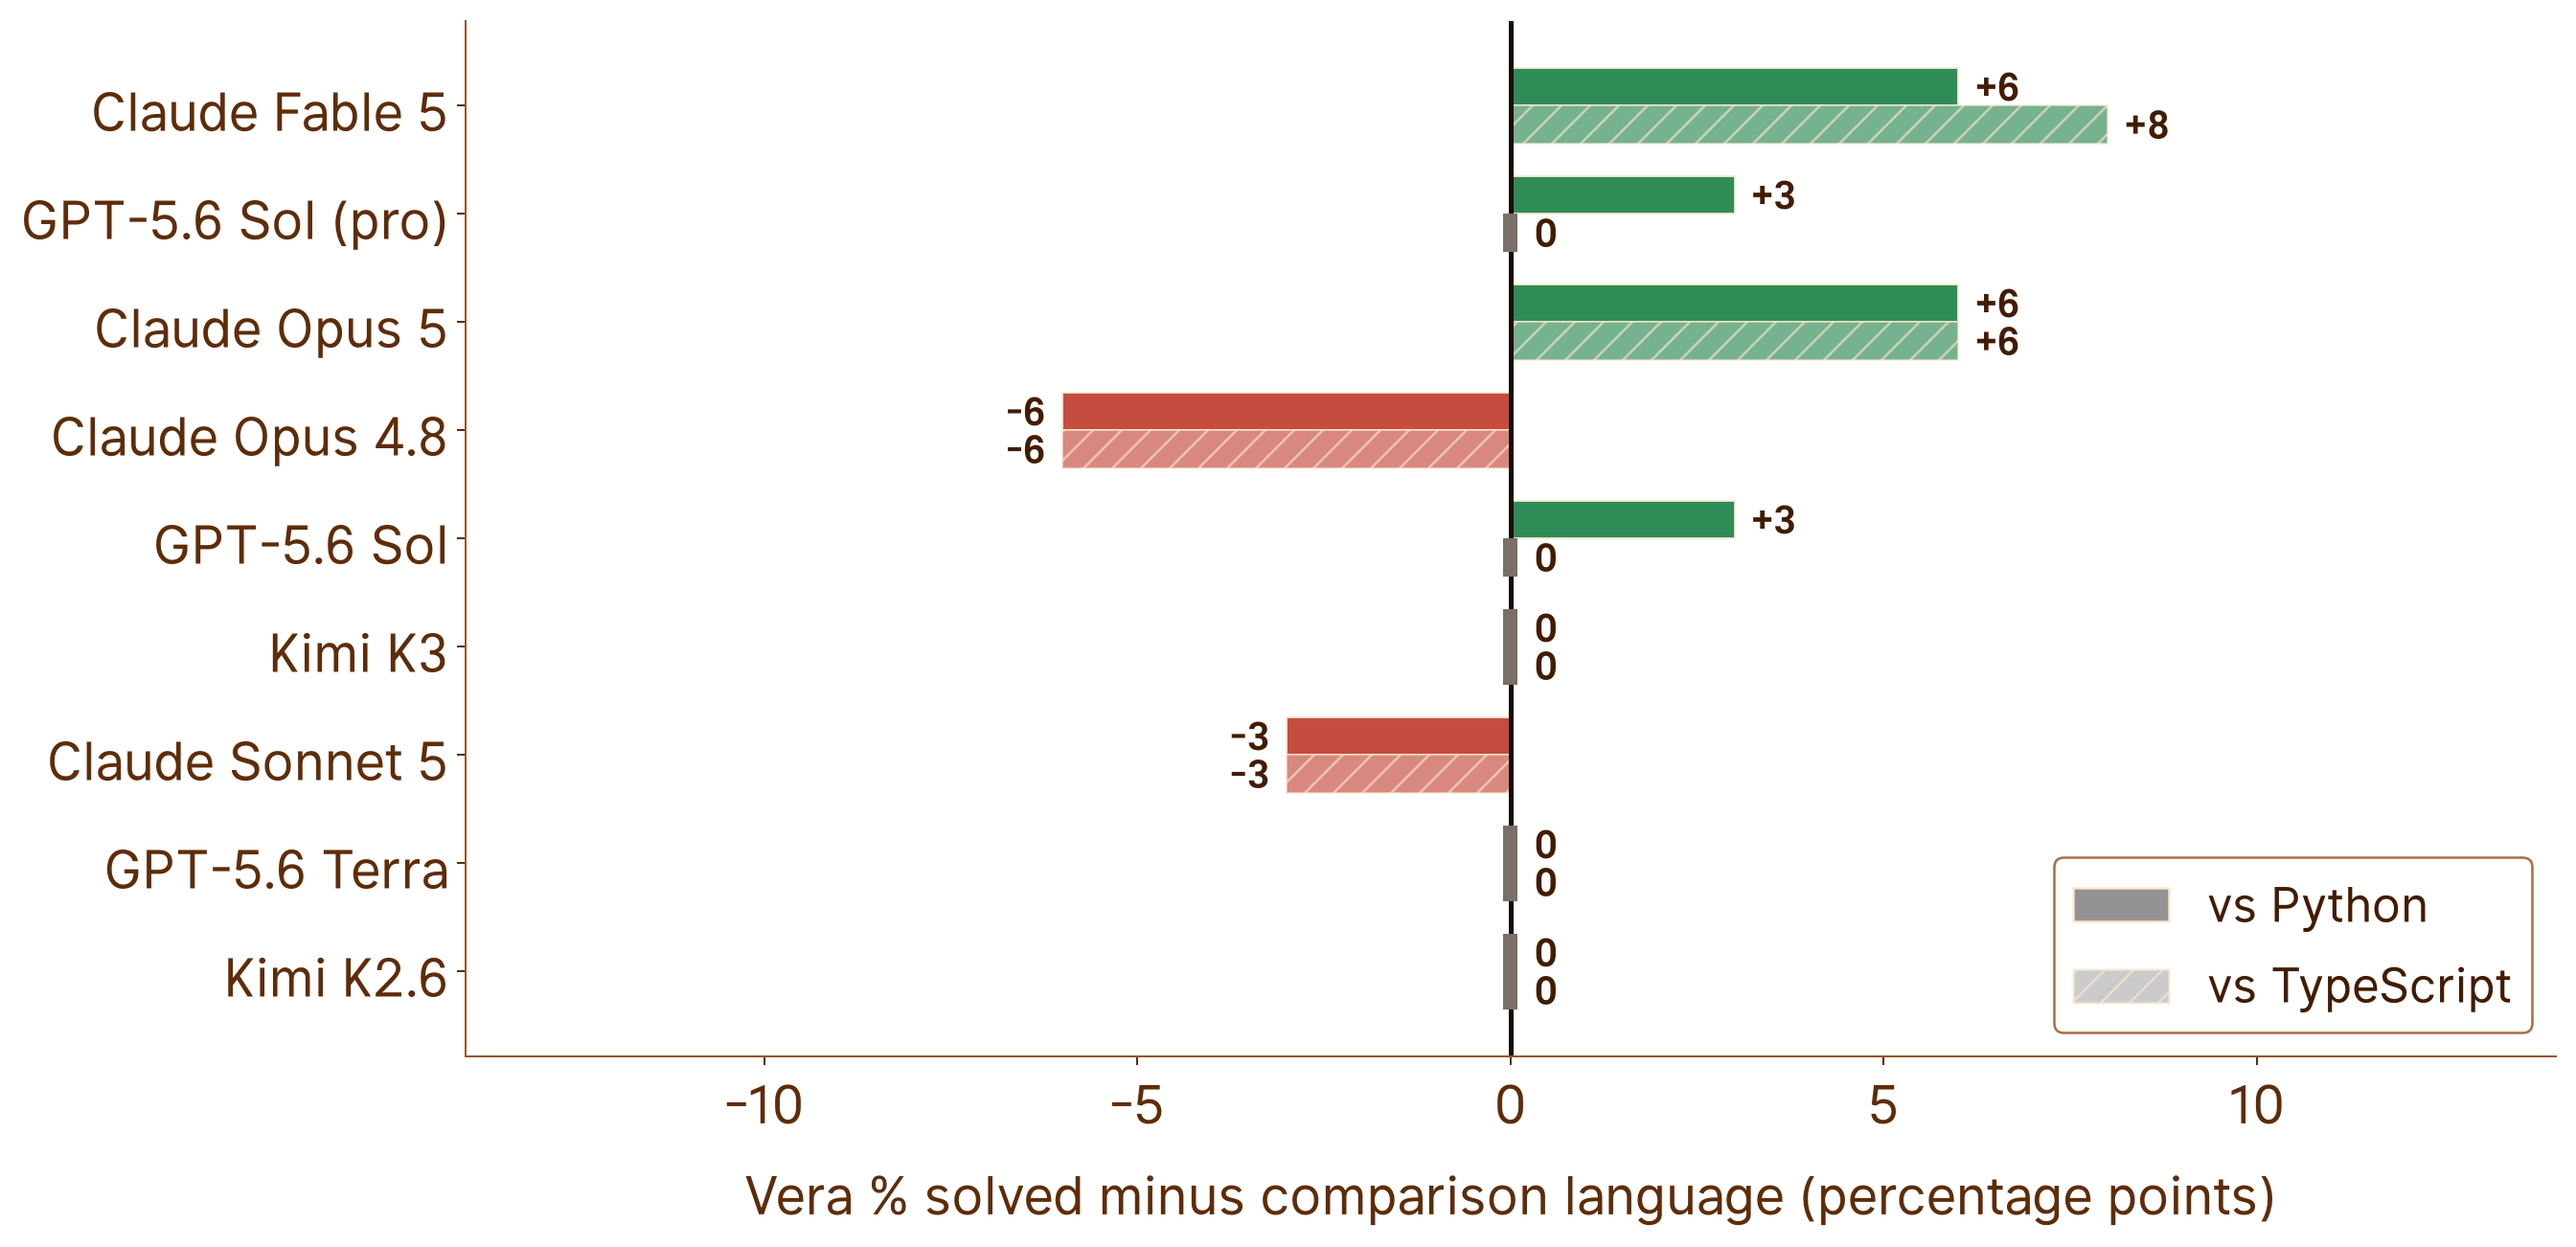
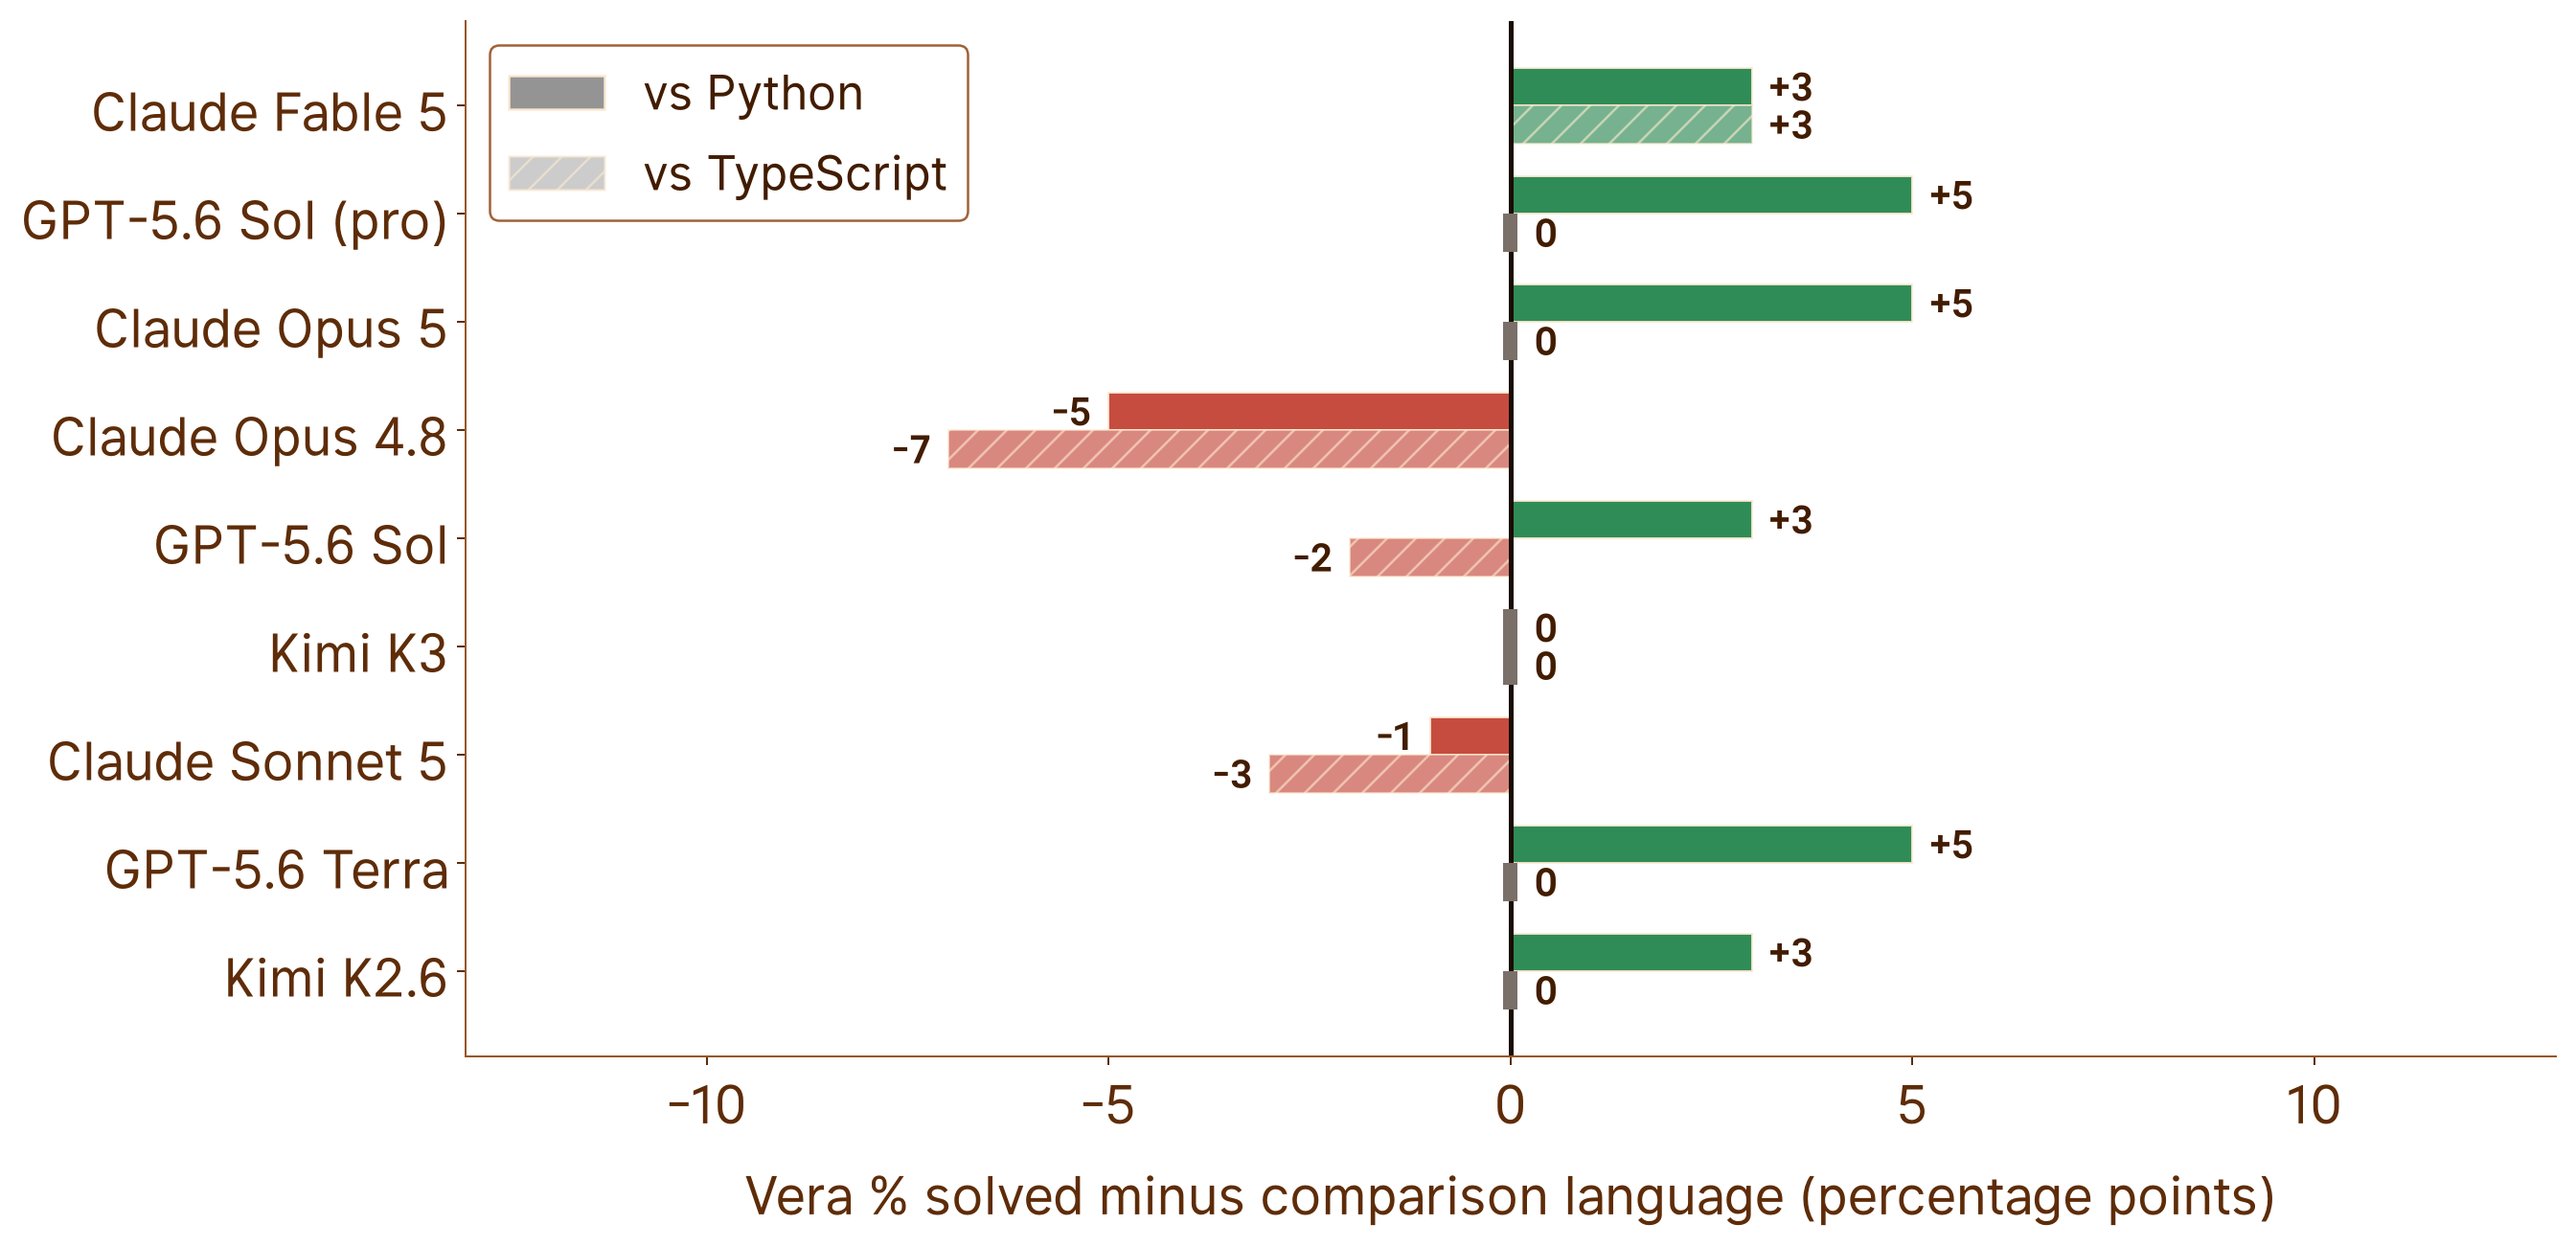
docs: update the VeraBench section for the v0.0.18 sweep
The first sweep to grade all 60 problems in every language, so every number
in the section moves and the denominator halves in significance: one problem
is now worth 1.7 percentage points rather than just under three.

Six of nine models write Vera perfectly, down from seven, and the headline
stat says so. The table carries the new scores with the same win/loss
marking, and the delta chart is the v0.0.18 render.

The summary line under the table changes shape rather than just its numbers.
"Vera wins outright for four" no longer describes the result: TypeScript now
reaches 100% for six of the nine models, so there is very little room at the
top for anything to win by, and claiming a win there would be reading noise.
What the data does support is that Vera is the highest score or level with it
for six of nine.

Two paragraphs are new, below the chart, because the Python and TypeScript
columns now differ in a way worth explaining. Python is dynamically typed and
finds a type error when the code runs; TypeScript rejects it first; Vera sits
on the TypeScript side and goes further with mandatory contracts and typed
slot references. Sorted by how much each constrains the model rather than by
how much of it the model has read, the ordering stops looking accidental.

That leads to the point the section was already gesturing at. TypeScript earns
its score with an enormous amount of the language in every training set; Vera
[…]

diff --git a/docs/index.html b/docs/index.html
@@ -422,7 +422,7 @@
       <div class="eyebrow"><span class="slot">@section.03</span> · empirical evidence</div>
       <h2>VeraBench</h2>
       <div class="bench-masthead">
-        <p class="bench-stat">Seven of nine frontier models write <b>100% correct</b> Vera &mdash; a language none of them has ever been trained on.</p>
+        <p class="bench-stat">Six of nine frontier models write <b>100% correct</b> Vera &mdash; a language none of them has ever been trained on.</p>
         <img src="vera-bench-meerkat-only.png" alt="VeraBench meerkat" class="bench-meerkat" width="542" height="640" loading="lazy">
       </div>
 
@@ -441,32 +441,32 @@
               <tr>
                 <td class="lang">Claude Fable 5 <span class="tag">ceiling</span></td>
                 <td class="win">100%</td>
-                <td class="loss">94%</td>
-                <td class="loss">92%</td>
+                <td class="loss">97%</td>
+                <td class="loss">97%</td>
               </tr>
               <tr>
                 <td class="lang">GPT-5.6 Sol (pro) <span class="tag">ceiling</span></td>
                 <td>100%</td>
-                <td class="loss">97%</td>
+                <td class="loss">95%</td>
                 <td>100%</td>
               </tr>
               <tr class="sep">
                 <td class="lang">Claude Opus 5 <span class="tag">flagship</span></td>
-                <td class="win">100%</td>
-                <td class="loss">94%</td>
-                <td class="loss">94%</td>
+                <td>100%</td>
+                <td class="loss">95%</td>
+                <td>100%</td>
               </tr>
               <tr>
                 <td class="lang">Claude Opus 4.8 <span class="tag">flagship</span></td>
-                <td class="loss">94%</td>
-                <td>100%</td>
-                <td>100%</td>
+                <td class="loss">93%</td>
+                <td class="loss">98%</td>
+                <td class="win">100%</td>
               </tr>
               <tr>
                 <td class="lang">GPT-5.6 Sol <span class="tag">flagship</span></td>
-                <td>100%</td>
-                <td class="loss">97%</td>
-                <td>100%</td>
+                <td class="loss">98%</td>
+                <td class="loss">95%</td>
+                <td class="win">100%</td>
               </tr>
               <tr>
                 <td class="lang">Kimi K3 <span class="tag">flagship</span></td>
@@ -477,32 +477,36 @@
               <tr class="sep">
                 <td class="lang">Claude Sonnet 5 <span class="tag">workhorse</span></td>
                 <td class="loss">97%</td>
-                <td>100%</td>
-                <td>100%</td>
+                <td class="loss">98%</td>
+                <td class="win">100%</td>
               </tr>
               <tr>
                 <td class="lang">GPT-5.6 Terra <span class="tag">workhorse</span></td>
                 <td>100%</td>
-                <td>100%</td>
+                <td class="loss">95%</td>
                 <td>100%</td>
               </tr>
               <tr>
                 <td class="lang">Kimi K2.6 <span class="tag">workhorse</span></td>
                 <td>100%</td>
-                <td>100%</td>
+                <td class="loss">97%</td>
                 <td>100%</td>
               </tr>
             </tbody>
           </table>
 
-          <p class="bench-caveat">Frontier models now write Vera <strong style="color:var(--ink-900)">as well as they write the languages they were trained on, and in a good many cases better</strong>. Vera wins outright for four of the nine models, draws with three and loses two.</p>
+          <p class="bench-caveat">Frontier models now write Vera <strong style="color:var(--ink-900)">as well as they write the languages they were trained on</strong>. Vera is the highest score, or level with it, for six of the nine models; TypeScript reaches 100% for six, which leaves very little room at the top for anything to win by.</p>
 
           <p class="bench-caveat" style="margin-top:.75rem">Mandatory contracts and typed slot references appear to provide enough structure to compensate for zero training data. Every green bar below was earned from a single document in the prompt, by a model that had never seen the language before.</p>
 
           <a href="https://github.com/aallan/vera-bench"><img src="verabench-delta-chart.png" alt="Does Vera beat Python / TypeScript?" class="bench-chart" loading="lazy" width="2689" height="1302"></a>
 
-          <p class="bench-caveat">Still early days. The benchmark is just a single run per model, no pass@k, and with 36 output-gradeable problems one problem is worth just under three percentage points, so most of the gaps above are only one or two problems wide. However it looks like language design can, at least sometimes, outweigh sheer volume of training data. Which, if you're in the business of generating code at any scale, is a reasonably interesting thing to be true.</p>
-          <p class="bench-caveat" style="margin-top:.75rem">Results from <a href="https://github.com/aallan/vera-bench#results">VeraBench v0.0.16</a> against <a href="https://github.com/aallan/vera/releases/tag/v0.1.7">Vera v0.1.7</a>. Inspired by <a href="https://github.com/openai/human-eval">HumanEval</a>, <a href="https://github.com/google-research/google-research/tree/master/mbpp">MBPP</a>, and <a href="https://github.com/sun-wendy/DafnyBench">DafnyBench</a>.</p>
+          <p class="bench-caveat">The Python and TypeScript columns are worth reading against each other, because they differ in exactly the way that matters here. Python is dynamically typed, so a type error surfaces when the code runs; TypeScript is statically typed and rejects the same error before anything runs. Vera sits on the TypeScript side of that line and goes further, making <code>requires</code>, <code>ensures</code> and <code>effects</code> mandatory on every function and replacing variable names with typed slot references. Sort the three by how much they constrain the model rather than by how much of them it has read, and the ordering stops looking accidental: the two languages that check before running finish ahead of the one that checks while running.</p>
+
+          <p class="bench-caveat" style="margin-top:.75rem">Which is the whole argument in one column. TypeScript earns its score with an enormous amount of the language in every training set. Vera earns very nearly the same score with none of it, from a single document in the prompt. Whatever familiarity is buying TypeScript, the constraints appear to be supplying by other means &mdash; and among the three languages here that <em>no</em> model has been trained on, the most constrained one scores highest.</p>
+
+          <p class="bench-caveat">Still early days. The benchmark is just a single run per model, no pass@k, and with all 60 problems now output-graded one problem is worth 1.7 percentage points, so most of the gaps above are only one or two problems wide. However it looks like language design can, at least sometimes, outweigh sheer volume of training data. Which, if you're in the business of generating code at any scale, is a reasonably interesting thing to be true.</p>
+          <p class="bench-caveat" style="margin-top:.75rem">Results from <a href="https://github.com/aallan/vera-bench#results">VeraBench v0.0.18</a> against <a href="https://github.com/aallan/vera/releases/tag/v0.1.8">Vera v0.1.8</a>. Inspired by <a href="https://github.com/openai/human-eval">HumanEval</a>, <a href="https://github.com/google-research/google-research/tree/master/mbpp">MBPP</a>, and <a href="https://github.com/sun-wendy/DafnyBench">DafnyBench</a>.</p>
           <p style="margin-top:1.25rem"><a href="https://github.com/aallan/vera-bench" class="btn btn-primary"><svg viewBox="0 0 16 16" fill="currentColor" aria-hidden="true"><path d="M8 0C3.58 0 0 3.58 0 8c0 3.54 2.29 6.53 5.47 7.59.4.07.55-.17.55-.38 0-.19-.01-.82-.01-1.49-2.01.37-2.53-.49-2.69-.94-.09-.23-.48-.94-.82-1.13-.28-.15-.68-.52-.01-.53.63-.01 1.08.58 1.23.82.72 1.21 1.87.87 2.33.66.07-.52.28-.87.51-1.07-1.78-.2-3.64-.89-3.64-3.95 0-.87.31-1.59.82-2.15-.08-.2-.36-1.02.08-2.12 0 0 .67-.21 2.2.82.64-.18 1.32-.27 2-.27.68 0 1.36.09 2 .27 1.53-1.04 2.2-.82 2.2-.82.44 1.1.16 1.92.08 2.12.51.56.82 1.27.82 2.15 0 3.07-1.87 3.75-3.65 3.95.29.25.54.73.54 1.48 0 1.07-.01 1.93-.01 2.2 0 .21.15.46.55.38A8.013 8.013 0 0016 8c0-4.42-3.58-8-8-8z"/></svg>vera-bench</a></p>
       </div>
     </div>
